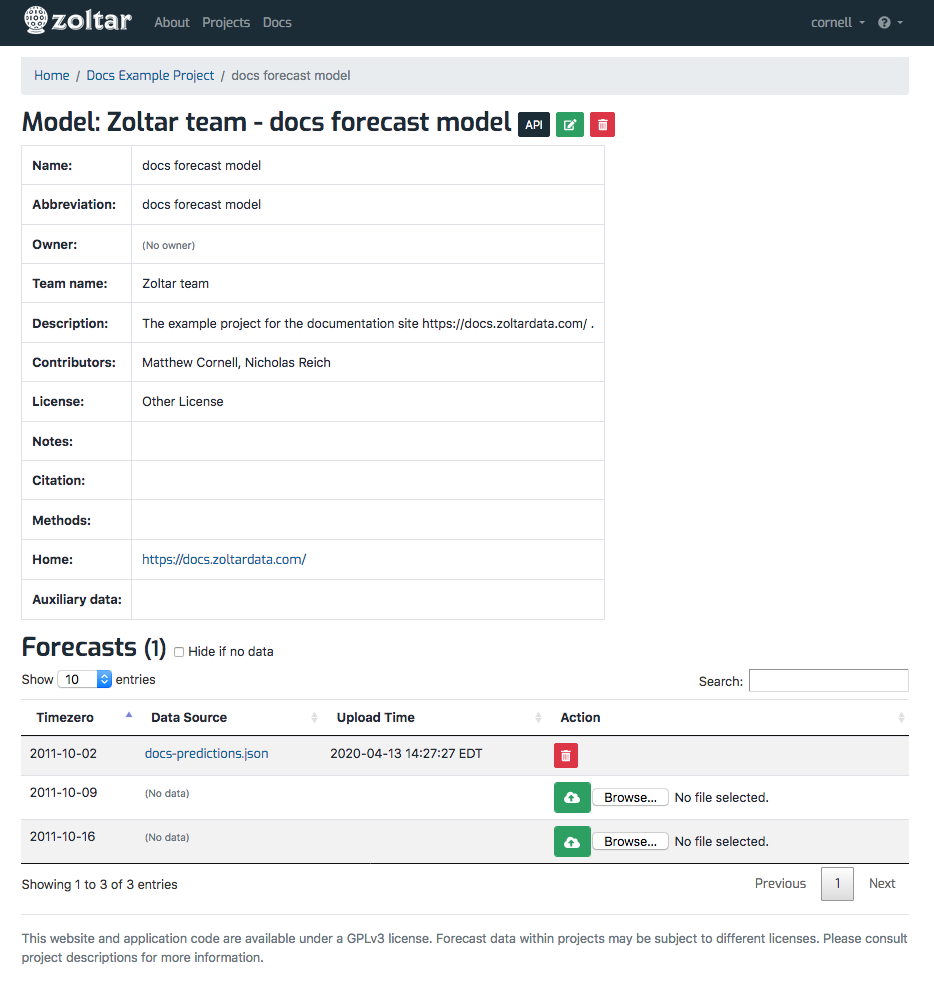
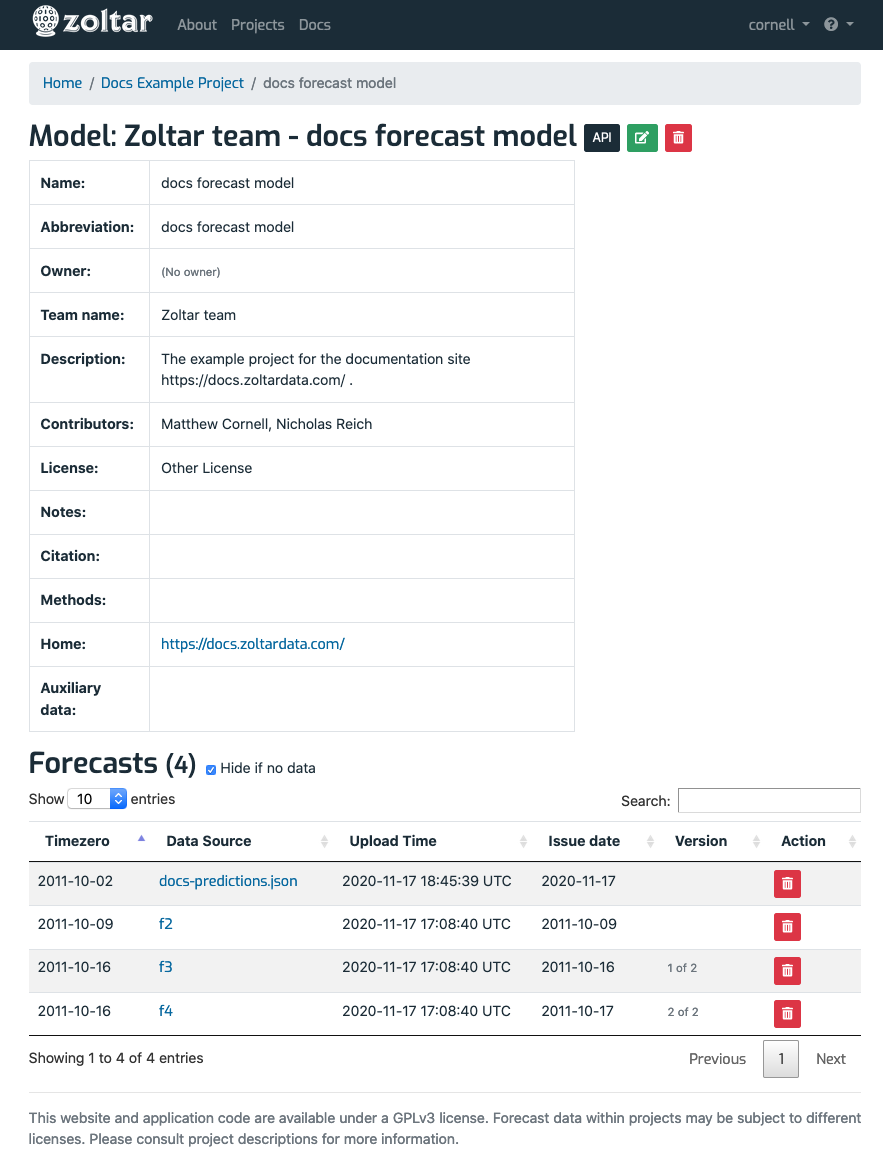
WIP [Add forecast versioning #273]

Changed region(s): [[0.0, 0.0, 1.0, 1.0], [0.1529, 0.5505, 0.3975, 0.581]]

diff --git a/docs/ProjectDetailPage.md b/docs/ProjectDetailPage.md
@@ -23,12 +23,12 @@ At the top of the page is a table showing this information related to the projec
 - _Home_: A link to the project's home page, which might include details about any competitions, source code, team members, included models, etc.
 - _Core data_: A link to a page that contains data (e.g., CSV files) used to train models. For model competitions, it should include all data sets made available to everyone in the challenge, including supplemental data like Google queries or weather data. Ideally Zoltar users interested in re-running a project's models have all they need in the home and core data directories. However, they are not used directly by Zoltar.
 - _Truth data_: A data file containing target ground truth that the project owner uploads. This data contains observed target values for time zeros and locations in the project, and is a project-agnostic way to capture actual values that models predicted for. It is used to calculate scores, and to extract the 'actual' data used in the D3 component's TimeChart. See [Truth](Truth.md) for details.
-- _Features_: Links to various pages, including to [download forecasts](Forecasts.md#download-multiple-forecasts) and [download scores](Scoring.md#downloading-scores). 
+- _Features_: Links to various pages, including [project explorer](ProjectExplorerPage.md), [forecasts summary](ForecastsSummaryPage.md), [download forecasts](Forecasts.md#download-multiple-forecasts), and [download scores](Scoring.md#downloading-scores).
 
 
 ## Forecast models
 
-The **Models** section lists the project's forecast models by name, with links to model detail pages (see details below). A **model** captures a team's prediction challenge effort, and includes forecasts for some or all **time zeros** defined for the project. (See [Concepts](Concepts.md) for more about time zeros.) If you're a project owner or model owner then a "New" button is shown that takes you to a form for creating a model. Clicking on a model's name takes you to its [model detail page](ModelDetailPage.md).
+The **Models** section lists the project's forecast models by name, with links to model detail pages and each model's oldest and newest forecast details (see details below), with the latter being a link to that forecast's detail page. A **model** captures a team's prediction challenge effort, and includes forecasts for some or all **time zeros** defined for the project. (See [Concepts](Concepts.md) for more about time zeros.) If you're a project owner or model owner then a "New" button is shown that takes you to a form for creating a model. Clicking on a model's name takes you to its [model detail page](ModelDetailPage.md).
 
 
 ## Units

diff --git a/docs/ForecastQueryFormat.md b/docs/ForecastQueryFormat.md
@@ -8,7 +8,7 @@ In addition to the ability to download individual forecasts via both the [web UI
 Like [uploading a forecast](Forecasts.md#upload-a-forecast), querying a project's forecasts can be a long operation. For this reason, Zoltar _enqueues_ queries as jobs that are operated on separately from the web process. This means querying follows these steps:
 
 1. Create and submit the [query](#query_format). This returns a job that you can use to a) track the status of the query, and b) download the query results (forecast data).
-1. Poll the job until its status is **SUCCESS**. (You can use the Web UI to do this as well. See [Check an upload's status](Forecasts.md#check-an-uploads-status) for how.)
+1. Poll the job until its status is **SUCCESS**. (You can use the web UI to do this as well. See [Check an upload's status](Forecasts.md#check-an-uploads-status) for how.)
 1. Download the data associated with the job.
 
 
@@ -16,7 +16,7 @@ Like [uploading a forecast](Forecasts.md#upload-a-forecast), querying a project'
 
 Zoltar supports a simple filtering feature that allows users to limit what data is downloaded.
 
-To filter a project's forecast data, we support the following five types of filters. They are passed behind the scenes to the server as JSON.
+To filter a project's forecast data, we support the following six types of filters. They are passed behind the scenes to the server as JSON.
 
 Logically, the filters are treated as a list of "ANDs of ORs": Each of the five filter types are lists that are considered individually as ORs. For example, a list of models means get data from *any* of them. The filters are combined by ANDs, meaning only data that matches *all* filters. (See the below example.) The types of filters are:
 
@@ -45,6 +45,12 @@ Logically, the filters are treated as a list of "ANDs of ORs": Each of the five 
 ```json
 {"types": ["point", "quantile"]}  # get only point and quantile data
 ```
+
+6) Filter by forecast *version*: Passing a date string in the optional `as_of` field (in `YYYY-MM-DD` format) causes the query to return only those forecast versions whose `issue_date` is <= the `as_of` date. If no `as_of` is passed then the query returns the most recent forecasts. (See [Concepts](Concepts.md) for more about versions.) Example:
+```json
+{"as_of": "2020-05-14"}  # get forecasts whose issue_date is <= this date
+```
+
 
 The lists in 1 through 5 operate as "OR" on their own but are combined in the final query as "AND"s. Here's an example:
 

diff --git a/docs/Concepts.md b/docs/Concepts.md
@@ -4,7 +4,7 @@ On this page we explain the fundamental ideas behind Zoltar's envisioning of rep
 
 - _Projects_: As mentioned in [Manging Projects](Projects.md), _projects_ are the central organizing concept in Zoltar. They define the _units_, _targets_ and _time zeros_ that forecasts are relative to, and contain the _forecast models_ that teams use to represent a forecasting challenge.
 - _Forecast models_: A _model_ is the representation of code that generates forecasts. It has zero or one _forecasts_ associated with the project's _time zeros_.
-- _Forecasts_: A forecast consists of a set of predictions of the various types supported by Zoltar. [The data model page](DataModel.md) describes them in detail.
+- _Forecasts_: A forecast consists of a set of predictions of the various types supported by Zoltar. Forecast _versioning_ is supported via each forecast having an `issue_date` field, which defaults to when the forecast was uploaded to Zoltar. (Users with advanced permission can change that field.) [The data model page](DataModel.md) describes forecasts in detail.
 - _Units_: Units represent distinct entities for which predictions are made, for example, if forecasts are made for multiple different locations, the locations are the units.
 - _Targets_: Targets are the fundamental data structure of a forecast, and as such have a [separate page](Targets.md) documenting them.
 - _Time zeros_: Because the forecasting field does not have standard terminology, we have settled on the following two concepts for this application. Note that some time zeros are tagged as starting a season, specifying the season's name, which helps to segment the time zeros.

diff --git a/docs/ModelDetailPage.md b/docs/ModelDetailPage.md
@@ -31,6 +31,8 @@ The **Forecasts** section is a table of the model's forecasts, ordered by projec
 - _Timezero_: The time zero that the forecast applies to. (The data version date, if any, is not shown here.) See [Concepts](Concepts.md) for more about time zeros.
 - _Data Source_: Text describing where the forecast came from. It can be anything but is typically a data file name, such as a CSV. The source is a link to the forecast's [forecast detail page](ForecastDetailPage.md). It says "(No data)" if a forecast has not yet been uploaded for that time zero. 
 - _Upload Time_: The date and time that the forecast was uploaded to Zoltar.
+- _Issue date_: The date identifying the forecast's _version_. If there is more than one version for this forecast's timezero then text like "Version 1 of 2" will show in the Version column. (See [Concepts](Concepts.md) for more about versions.)
+- _Version_: Text describing the version, such as "Version 1 of 2". It is empty if there's only one forecast version for the timezero.
 - _Action_: A button that is either a green upload icon if there is no data associated with the time zero, or a red delete button otherwise. See [Forecasts](Forecasts.md) for instructions on how to upload forecasts, and [File formats](FileFormats.md#forecast-data-format-json) for how forecast files are structured in Zoltar. This feature is enabled only for project owners or model owners.
 
 The **Hide if no data** checkbox, if checked, shows only those Timezeros that have an uploaded forecast. Uncheck it to see all Timezeros (necessary if you want to upload any). 

diff --git a/docs/ForecastDetailPage.md b/docs/ForecastDetailPage.md
@@ -11,6 +11,7 @@ At the top of the page is a table showing information related to the forecast:
 
 - _Model_: A link to the owning [model](ModelDetailPage.md).
 - _Timezero_: The time zero that the forecast applies to. (The data version date, if any, is not shown here.) See [Concepts](Concepts.md) for more about time zeros.
+- _Issue date_: The date identifying the forecast's _version_. If there is more than one version for this forecast's timezero then text like "Version 1 of 2" will show. (See [Concepts](Concepts.md) for more about versions.)
 - _Data Source_: Text describing where the forecast came from. It can be anything but is typically a data file name, such as a CSV. The source is a link to the forecast's [forecast detail page](ForecastDetailPage.md). It says "(No data)" if a forecast has not yet been uploaded for that time zero. 
 - _Upload time_: The date and time that the forecast was uploaded to Zoltar.
 - _Notes_: Text describing anything slightly different about a given forecast, e.g., a changed set of assumptions or a comment about when the forecast was created. Notes should be brief, typically less than 50 words.

diff --git a/docs/Jobs.md b/docs/Jobs.md
@@ -18,7 +18,7 @@ To see a list of all of your jobs, go to your [profile page](Accounts.md#view-yo
 When you initiate one of the above activities (either via the Web or the API), Zoltar creates an internal Job to track it and returns that Job's ID so you can check its status and optionally download any corresponding data. The workflow is:
 
 1. Initiate the activity. This returns a job that you can use to a) track the status of the query, and b) optionally download the job's data.
-1. Poll the job until its status is **SUCCESS**. (You can use the Web UI to do this - see [Check a job's status](#check-a-jobs-status) for how.)
+1. Poll the job until its status is **SUCCESS**. (You can use the web UI to do this - see [Check a job's status](#check-a-jobs-status) for how.)
 1. Optionally [download the job's data](#download-a-jobs-data), if applicable. Note that data is available for 24 hours after it's created.
 
 

diff --git a/docs/ForecastsSummaryPage.md b/docs/ForecastsSummaryPage.md
@@ -1,0 +1,11 @@
+# Forecasts summary page
+
+Reached via the [project detail page](ProjectDetailPage.md)'s _Features_ section, this page collects a summary of all of a project's forecasts. It contains a heatmap at the top that can be colored in one of three ways (# rows, # units, or # targets), and a table of all forecasts (including all versions) in the project. Follow are examples from two projects. Hovering the mouse over the heatmap shows information for that particular forecast (only the latest versions are shown), and clicking takes you to that forecast.
+
+
+## Documentation project
+![Forecasts summary page docs](img/forecasts-summary-page.png "Forecasts summary page docs")
+
+
+## Covidhub project
+![Forecasts summary page covid](img/forecasts-summary-page-covid.png "Forecasts summary page covid")

diff --git a/docs/Forecasts.md b/docs/Forecasts.md
@@ -3,6 +3,8 @@
 A _forecast_ is a set of predictions for combinations of units and targets. See [Data Model](DataModel.md) for detail on the structure of predictions. Following are the forecast operations you can do from within Zoltar.
 
 > Note: Operations on forecasts, like many Zoltar activities, can be done either through the [zoltardata.com](https://www.zoltardata.com/) web interface or programmatically using the [Zoltar libraries](ApiIntro.md).
+>
+> Note: As mentioned in [Concepts](Concepts.md), forecasts can have versions via their `issue_date` field. However, versioning is currently supported only via the API.
 
 
 ## Upload a forecast

diff --git a/docs/ProjectExplorerPage.md b/docs/ProjectExplorerPage.md
@@ -1,0 +1,11 @@
+# Project explorer page
+
+Reached via the [project detail page](ProjectDetailPage.md)'s _Features_ section, this page has two tabs that show unit and target summaries for each model in the project, respectively, along with a link to the model's latest forecast.
+
+
+## Latest units tab
+![Latest units tab](img/project-explorer-latest-units.png "Latest units tab")
+
+
+## Latest targets tab
+![Latest targets tab](img/project-explorer-latest-targets.png "Latest targets tab")
